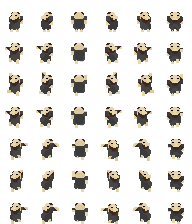
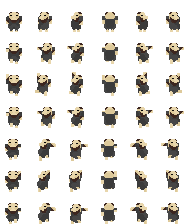
Sprite V3

diff --git a/src/main.cpp b/src/main.cpp
@@ -26,6 +26,7 @@
 
 #include "gui/Camera.h"
 #include "utils/gui/SpriteSheet.h"
+#include "utils/gui/SpriteAsset.h"
 #include "utils/gui/Window.h"
 #include "gui/RenderingEngine.h"
 #include "gui/SmallObjectRenderer.h"
@@ -49,8 +50,8 @@
 int main(int argc, char** argv) {
 
   Window *window = Window::createWindow(1920/FACTOR, 1080/FACTOR);
-  SpriteSheet *groundSprite = SpriteSheet::loadFromFile("medias/sol.png", 1, 1, window->renderer).release();
-  SpriteSheet *peonSprite = SpriteSheet::loadFromFile("medias/peon.png", 1, 1, window->renderer).release();
+  auto groundSprite = SpriteSheet::loadFromFile("medias/sol.png", 1, 1, window->renderer);
+  auto peonSprite = SpriteAsset::loadFromFile("medias/peon_palette_animation.png", window->renderer);
   
   Peon peon(FlatHexPosition(0,0,FlatHexPosition::Axial),FlatHexPosition(0,0,FlatHexPosition::Axial));
   Peon peon2(FlatHexPosition(2,2,FlatHexPosition::Axial),FlatHexPosition(0,0,FlatHexPosition::Axial));
@@ -71,8 +72,8 @@ int main(int argc, char** argv) {
     SIZE, SIZE);
   
   
-  TiledObjectRenderer tilerdr(&camera, groundSprite);
-  SmallObjectRenderer prdr(peonSprite);
+  TiledObjectRenderer tilerdr(&camera, std::move(groundSprite));
+  SmallObjectRenderer prdr(std::move(peonSprite));
   
   SDLHandler handler(&camera, &camera, &controller);
   
@@ -85,15 +86,9 @@ int main(int argc, char** argv) {
     OUPS();
   }
   
-  
-  LOG_DEBUG("Window : %d,%d\nSprite : %d,%d\nCamera : %d,%d\n", 
-      window->width, window->height,
-      groundSprite->width(), groundSprite->height(),
-      camera.tileWidth(), camera.tileHeight());
-  
   camera.target(FlatHexPosition(0.5,0,FlatHexPosition::OddQOffset));
   
-  RenderingEngine rdr(window, &camera, &map_test, &tilerdr, &prdr);
+  RenderingEngine rdr(window, &camera, &camera, &map_test, &tilerdr, &prdr);
 
   long tickStartTime, tickEllapsedTime;
   while(handler.handleSDLEvents()) {
@@ -117,8 +112,6 @@ int main(int argc, char** argv) {
     }
   }
   
-  delete groundSprite;
-  delete peonSprite;
   delete window;
   
   Mix_CloseAudio();

diff --git a/src/utils/gui/SpriteAsset.cpp b/src/utils/gui/SpriteAsset.cpp
@@ -23,17 +23,9 @@
 ///
 
 #include "SpriteAsset.h"
-#include "SpriteSheet.h"
-
-/// \brief Create an asset from a loaded SpriteSheet
-SpriteAsset::SpriteAsset(std::unique_ptr<SpriteSheet> sheet) : 
-  _sheet(std::move(sheet))
-{
-  
-}
 
 /// \brief Load an asset from given file
-std::unique_ptr<SpriteAsset> SpriteAsset::loadFromFile(
+std::unique_ptr<SpriteSheet> SpriteAsset::loadFromFile(
   const char *path, 
   SDL_Renderer *rdr)
 {
@@ -45,24 +37,5 @@ std::unique_ptr<SpriteAsset> SpriteAsset::loadFromFile(
   rows = sheet->height() / width;
   if (sheet->recut(rows, 6)) return nullptr;
   // done
-  return std::make_unique<SpriteAsset>(std::move(sheet));
-}
-
-/// \brief return number of frames in the animation
-int SpriteAsset::animationFrames() const {
-  return _sheet->rowCount();
-}
-
-/// \brief render the sprite at given dest
-/// \param dir   : Sprite orientation
-/// \param frame : Animation's frame
-/// \param rdr   : Targeted renderer
-/// \param dest  : drawing target
-int SpriteAsset::render(
-  unsigned int dir, 
-  unsigned int frame, 
-  SDL_Renderer *rdr, 
-  const SDL_Rect *dest)
-{
-  return _sheet->renderFrame(frame, dir, rdr, dest);
+  return sheet;
 }

diff --git a/src/gui/RenderingEngine.cpp b/src/gui/RenderingEngine.cpp
@@ -30,11 +30,13 @@
 RenderingEngine::RenderingEngine(
     Window *w, 
     HexViewport *c, 
+    AbstractCamera *ac,
     World *wo, 
     AbstractRenderer *t,
     AbstractRenderer *p) : 
   _window(w),
   _worldView(c),
+  _camera(ac),
   _world(wo),
   _tilerdr(t),
   _peonrdr(p)
@@ -88,7 +90,9 @@ void RenderingEngine::render() {
       {
         _worldView->toPixel(off, &x, &y);
         //LOG_DEBUG("%d,%d -> %d,%d\n", x, y, rect.x, rect.y);
-        if (_tilerdr->renderAt(x, y, _window->renderer)) {
+        if (_tilerdr->renderAt(_camera->getOrientation(), 
+            x, y, _window->renderer)) 
+        {
           LOG_WRN("%s\n", SDL_GetError());
           OUPS();
         }
@@ -97,7 +101,8 @@ void RenderingEngine::render() {
         if (vec) {
           for (auto peon : *vec) {
             _worldView->toPixel(peon->pos(), &x, &y);
-            _peonrdr->renderAt(x, y, _window->renderer);
+            _peonrdr->renderAt(_camera->getOrientation(), 
+                x, y, _window->renderer);
           }
         }
       }

diff --git a/src/utils/gui/SpriteAsset.h b/src/utils/gui/SpriteAsset.h
@@ -29,32 +29,11 @@
 #include "utils/gui/SpriteSheet.h"
 
 class SpriteAsset {
-private:
-  std::unique_ptr<SpriteSheet> _sheet;
-  
 public:
-  
-  /// \brief Create an asset from a loaded SpriteSheet
-  SpriteAsset(std::unique_ptr<SpriteSheet> sheet);
-  
   /// \brief Load an asset from given file
-  std::unique_ptr<SpriteAsset> loadFromFile(
+  static std::unique_ptr<SpriteSheet> loadFromFile(
     const char *path, 
     SDL_Renderer *rdr);
-  
-  /// \brief return number of frames in the animation
-  int animationFrames() const;
-  
-  /// \brief render the sprite at given dest
-  /// \param dir   : Sprite orientation
-  /// \param frame : Animation's frame
-  /// \param rdr   : Targeted renderer
-  /// \param dest  : drawing target
-  int render(
-    unsigned int dir, 
-    unsigned int frame, 
-    SDL_Renderer *rdr, 
-    const SDL_Rect *dest);
 };
 
 #endif /* SPRITEASSET_H */

diff --git a/src/gui/SmallObjectRenderer.cpp b/src/gui/SmallObjectRenderer.cpp
@@ -25,16 +25,16 @@
 #include "SmallObjectRenderer.h"
 
 /// Constructor
-SmallObjectRenderer::SmallObjectRenderer(SpriteSheet *s) : AbstractRenderer(s) {
+SmallObjectRenderer::SmallObjectRenderer(std::unique_ptr<SpriteSheet> s) : AbstractRenderer(std::move(s)) {
   
 }
 
 /// \brief Draw a peon on screen, with (x,y) coordinate of bottom's middle
-int SmallObjectRenderer::renderAt(int x, int y, SDL_Renderer *rdr) {
+int SmallObjectRenderer::renderAt(int ori, int x, int y, SDL_Renderer *rdr) {
   SDL_Rect r;
   r.w = _sheet->width();
   r.h = _sheet->height();
   r.x = x - r.w / 2;
   r.y = y - r.h;
-  return _sheet->renderFrame(0, 0, rdr, &r);
+  return _sheet->renderFrame(0, ori, rdr, &r);
 }

diff --git a/src/utils/gui/SpriteSheet.cpp b/src/utils/gui/SpriteSheet.cpp
@@ -60,7 +60,6 @@ std::unique_ptr<SpriteSheet> SpriteSheet::loadFromFile(
   SDL_Surface *surface;
   SDL_Texture *texture;
   SDL_RWops   *rwop;
-  int width, height;
   /* assertions */
   assert(path);
   assert(rdr);
@@ -126,11 +125,7 @@ int SpriteSheet::recut(unsigned int rows, unsigned int cols) {
   if ((width % cols) != 0 || (height % rows) != 0) {
     LOG_WRN("Ill formed Sprite Sheet ... inequals sprites\n");
   }
-  width /= rows, height /= cols;
-  if (width != height) {
-    LOG_WRN("Non square sprites are not recomended (%dx%d)\n", 
-        width, height);
-  }
+  width /= cols, height /= rows;
   _w = width, _h = height, _rows = rows, _cols = cols;
   return 0;
 }

diff --git a/src/utils/gui/AbstractRenderer.h b/src/utils/gui/AbstractRenderer.h
@@ -31,15 +31,20 @@
 class AbstractRenderer {
 protected:
   
-  SpriteSheet *_sheet;
+  std::unique_ptr<SpriteSheet> _sheet;
   
 public:
   
-  virtual int renderAt(int x, int y, SDL_Renderer *rdr) = 0;
+  /// \brief Render the object at given position
+  /// \param ori : curent camera's orientation
+  /// \param x   : object's x position on screen
+  /// \param y   : object's y position on screen
+  /// \param rdr : renderer
+  virtual int renderAt(int ori, int x, int y, SDL_Renderer *rdr) = 0;
   
 protected:
   
-  AbstractRenderer(SpriteSheet *sheet);
+  AbstractRenderer(std::unique_ptr<SpriteSheet> sheet);
 };
 
 #endif /* ABSTRACTRENDERER_H */

diff --git a/src/gui/RenderingEngine.h b/src/gui/RenderingEngine.h
@@ -29,6 +29,7 @@
 #include "utils/gui/Window.h"
 #include "utils/hex/HexViewport.h"
 #include "utils/gui/AbstractRenderer.h"
+#include "utils/gui/AbstractCamera.h"
 #include "world/World.h"
 
 /// \brief Object responsible of Game rendering
@@ -37,6 +38,7 @@ private:
   
   Window *_window;
   HexViewport *_worldView;
+  AbstractCamera *_camera;
   World *_world;
   AbstractRenderer *_tilerdr;
   AbstractRenderer *_peonrdr;
@@ -47,6 +49,7 @@ public:
   RenderingEngine(
           Window *w, 
           HexViewport *c, 
+          AbstractCamera *ac,
           World *wo, 
           AbstractRenderer *t,
           AbstractRenderer *p);

diff --git a/src/gui/TiledObjectRenderer.cpp b/src/gui/TiledObjectRenderer.cpp
@@ -25,14 +25,14 @@
 #include "TiledObjectRenderer.h"
 
 TiledObjectRenderer::TiledObjectRenderer(
-  HexViewport *wv, SpriteSheet *sheet) :
-  AbstractRenderer(sheet),
+  HexViewport *wv, std::unique_ptr<SpriteSheet> sheet) :
+  AbstractRenderer(std::move(sheet)),
   _worldview(wv)
 {
   
 }
 
-int TiledObjectRenderer::renderAt(int x, int y, SDL_Renderer *rdr) {
+int TiledObjectRenderer::renderAt(int ori, int x, int y, SDL_Renderer *rdr) {
   SDL_Rect rect;
   rect.w = _sheet->width(), rect.h = _sheet->height();
   rect.x = x - rect.w/2;

diff --git a/src/gui/SmallObjectRenderer.h b/src/gui/SmallObjectRenderer.h
@@ -31,10 +31,10 @@ class SmallObjectRenderer : public AbstractRenderer {
 public:
 
   /// Constructor
-  SmallObjectRenderer(SpriteSheet *s);
+  SmallObjectRenderer(std::unique_ptr<SpriteSheet> s);
   
   /// \brief Draw a peon on screen, with (x,y) coordinate of bottom's middle
-  virtual int renderAt(int x, int y, SDL_Renderer *rdr);
+  virtual int renderAt(int ori, int x, int y, SDL_Renderer *rdr);
   
 };
 

diff --git a/src/utils/gui/AbstractCamera.cpp b/src/utils/gui/AbstractCamera.cpp
@@ -72,11 +72,11 @@ int AbstractCamera::getOrientation() {
 }
 
 void AbstractCamera::rotateRight() {
-  _orientation = (_orientation+1) %_nors;
+  _orientation = (_orientation <= 0 ? _nors : _orientation) -1;
   this->doRotateRight();
 }
 
 void AbstractCamera::rotateLeft() {
-  _orientation = (_orientation <= 0 ? _nors : _orientation) -1;
+  _orientation = (_orientation+1) %_nors;
   this->doRotateLeft();
 }

diff --git a/src/gui/TiledObjectRenderer.h b/src/gui/TiledObjectRenderer.h
@@ -35,9 +35,9 @@ private:
   
 public:
   
-  TiledObjectRenderer(HexViewport *wv, SpriteSheet *sheet);
+  TiledObjectRenderer(HexViewport *wv, std::unique_ptr<SpriteSheet> sheet);
   
-  virtual int renderAt(int x, int y, SDL_Renderer *rdr);
+  virtual int renderAt(int ori, int x, int y, SDL_Renderer *rdr);
 };
 
 #endif /* TILEDOBJECTRENDERER_H */
